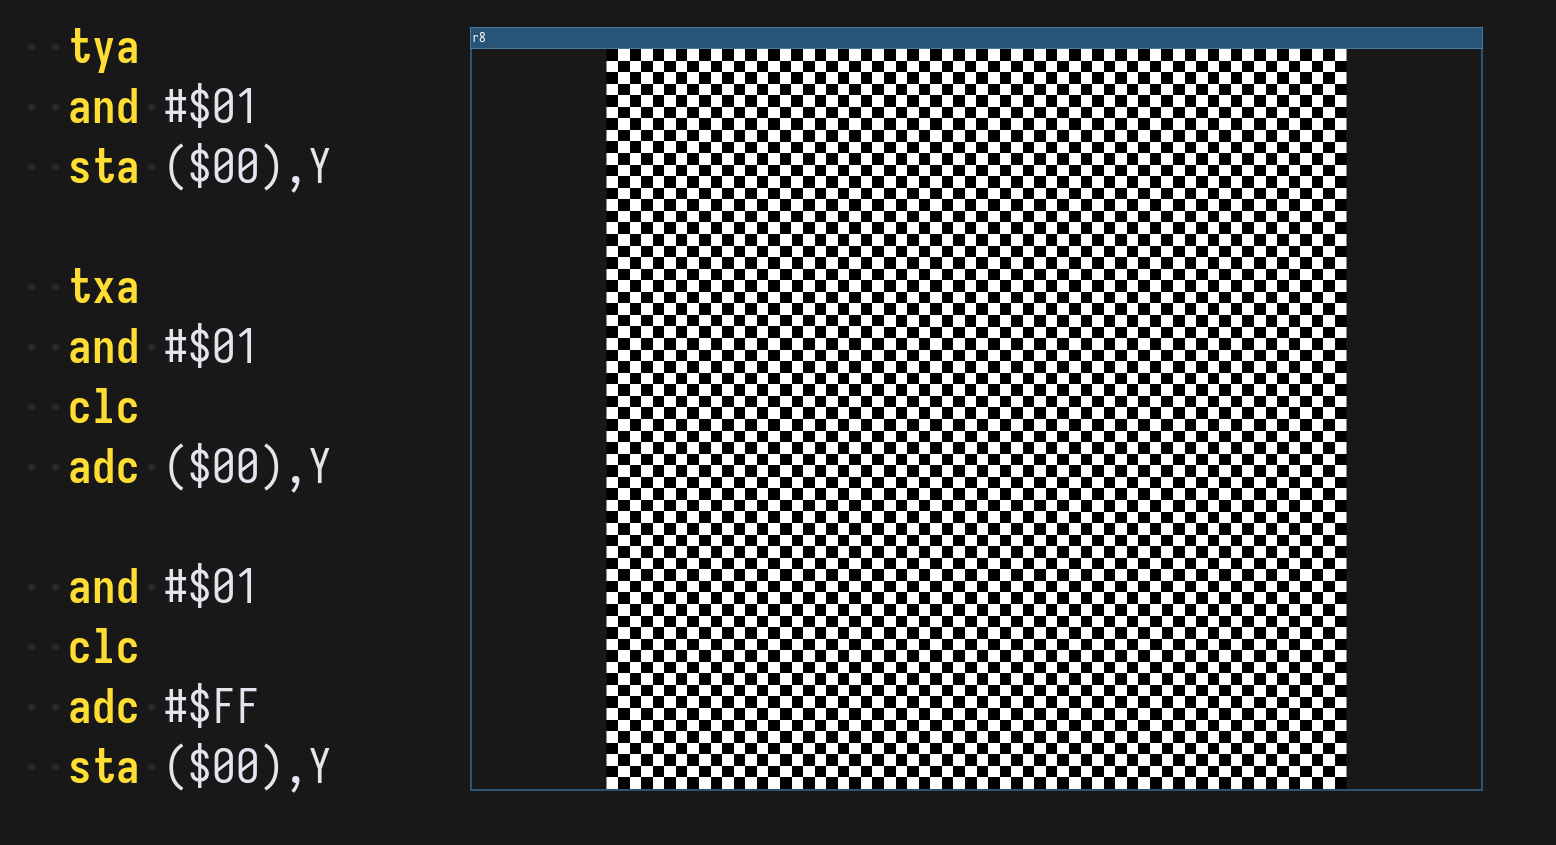
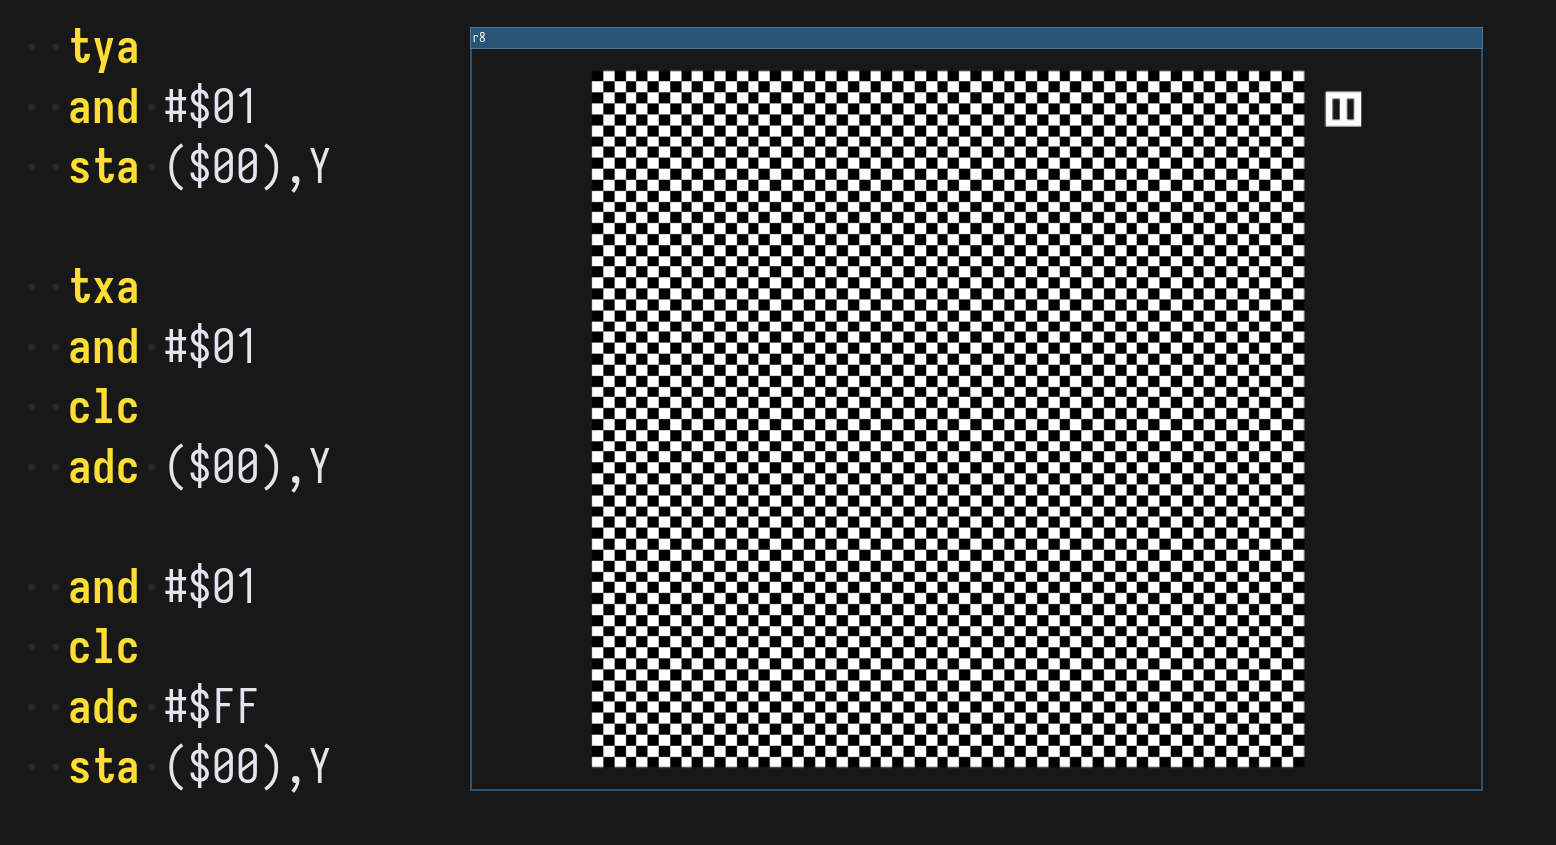
Configurable FPS
- Introduce a register to control the FPS of the emulation.
- Map Backspace, Enter and Escape keys to their corresponding ASCII ranges.
- Disable Raylib's quit on escape.
- Unbind Space from Toggle Pause so to not interfer with the keyboard
  input for the ROM.
- Introduce the Toggle Pause UI button.

Changed region(s): [[0.3702, 0.0615, 0.8946, 0.9538]]

diff --git a/src/r8.c b/src/r8.c
@@ -8,10 +8,10 @@
 #include "no_rom.c"
 
 #define UI_FPS 60 // The FPS the UI is running at
-#define EMU_FPS 5 // The FPS the 6502 emulator is running at
-#define EMU_DELTA_TIME (1.0/EMU_FPS)
+#define DEFAULT_EMU_FPS 5 // Default FPS the 6502 emulator is running at
 #include "layout.h"
 #define MAX_VECTOR_STEPS (10*1000*1000)
+#define BACKGROUND_COLOR 0x181818FF
 
 // 0x1000 .. 0x2000
 
@@ -71,17 +71,20 @@ bool reload_rom(String_Builder *rom, const char *rom_path)
 
     if (rom_path == NULL) {
         load_rom_at(no_rom, ARRAY_LEN(no_rom), ENTRY_POINT);
-        reset6502();
-        return true;
+    } else {
+        rom->count = 0;
+        if (!read_entire_file(rom_path, rom)) return false;
+        load_rom_at((uint8_t*)rom->items, rom->count, ENTRY_POINT);
     }
 
-    rom->count = 0;
-    if (!read_entire_file(rom_path, rom)) return false;
-    load_rom_at((uint8_t*)rom->items, rom->count, ENTRY_POINT);
     reset6502();
+    MEMORY[FPS_CONFIG] = DEFAULT_EMU_FPS;
 
     return true;
 }
+
+void box_pad(Rectangle *a, float pad);
+void box_merge(Rectangle *a, Rectangle b);
 
 int main(int argc, char **argv)
 {
@@ -101,6 +104,7 @@ int main(int argc, char **argv)
     SetConfigFlags(FLAG_WINDOW_RESIZABLE | FLAG_MSAA_4X_HINT);
     InitWindow(800, 600, "r8");
     SetTargetFPS(UI_FPS);
+    SetExitKey(KEY_NULL);
 
 
     Texture canvas = LoadTextureFromImage((Image) {
@@ -114,11 +118,8 @@ int main(int argc, char **argv)
 
     float global_timer = 0;
     bool pause = false;
+    Rectangle ui_box = {0};
     while (!WindowShouldClose()) {
-        if (IsKeyPressed(KEY_SPACE)) {
-            pause = !pause;
-        }
-
         if (IsKeyPressed(KEY_R) && IsKeyDown(KEY_LEFT_CONTROL)) {
             reload_rom(&rom, rom_path);
             call_vector(ENTRY_POINT);
@@ -137,13 +138,19 @@ int main(int argc, char **argv)
         }
 
         if (!pause) {
-            float a = fmodf(global_timer, EMU_DELTA_TIME);
+            int emu_fps = MEMORY[FPS_CONFIG] & 31;
+            if (emu_fps == 0) { emu_fps = DEFAULT_EMU_FPS; }
+            float emu_delta_time = 1.f / (float) emu_fps;
+            float a = fmodf(global_timer, emu_delta_time);
             global_timer += GetFrameTime();
-            float b = fmodf(global_timer, EMU_DELTA_TIME);
+            float b = fmodf(global_timer, emu_delta_time);
             if (b < a) {
                 for (int c = 0; c < 128; ++c) {
                     MEMORY[KEYBOARD + c] = IsKeyDown(c);
                 }
+                MEMORY[KEYBOARD + '\b'] = IsKeyDown(KEY_BACKSPACE);
+                MEMORY[KEYBOARD + '\n'] = IsKeyDown(KEY_ENTER);
+                MEMORY[KEYBOARD + 0x1B] = IsKeyDown(KEY_ESCAPE);
 
                 call_vector(read16(UPDATE_VECTOR));
             }
@@ -156,17 +163,67 @@ int main(int argc, char **argv)
 
         Camera2D camera = {0};
         camera.offset = (Vector2){w*0.5, h*0.5};
-        if (w < h) {
-            camera.zoom = w/canvas.width;
+        camera.target = (Vector2){
+            ui_box.x + ui_box.width*0.5,
+            ui_box.y + ui_box.height*0.5,
+        };
+        if (w/h < ui_box.width/ui_box.height) {
+            camera.zoom = w/ui_box.width;
         } else {
-            camera.zoom = h/canvas.height;
+            camera.zoom = h/ui_box.height;
         }
 
         BeginDrawing(); {
-            ClearBackground(GetColor(0x181818FF));
+            ClearBackground(GetColor(BACKGROUND_COLOR));
             BeginMode2D(camera); {
-                Vector2 position = {-canvas.width*0.5, -canvas.height*0.5};
-                DrawTextureEx(canvas, position, 0, 1, WHITE);
+                DrawTextureEx(canvas, Vector2Zero(), 0, 1, WHITE);
+                Rectangle canvas_box = {0, 0, canvas.width, canvas.height};
+                float margin_between_canvas_and_pause_button = 0.03*canvas.width;
+                Rectangle pause_button_box = {0};
+                pause_button_box.x      = canvas_box.x + canvas.width + margin_between_canvas_and_pause_button;
+                pause_button_box.y      = canvas_box.y + margin_between_canvas_and_pause_button;
+                pause_button_box.width  = canvas_box.width*0.05;
+                pause_button_box.height = pause_button_box.width;
+                DrawRectangleRec(pause_button_box, WHITE);
+                float icon_padding_left   = 0.3*pause_button_box.width;
+                float icon_padding_right  = 0.2*pause_button_box.width;
+                float icon_padding_top    = 0.2*pause_button_box.width;
+                float icon_padding_bottom = 0.2*pause_button_box.width;
+                if (pause) {
+                    Vector2 v1 = {pause_button_box.x + icon_padding_left, pause_button_box.y + icon_padding_top};
+                    Vector2 v2 = {pause_button_box.x + icon_padding_left, pause_button_box.y + pause_button_box.height - icon_padding_bottom};
+                    Vector2 v3 = {pause_button_box.x + pause_button_box.width - icon_padding_right, pause_button_box.y + pause_button_box.height*0.5};
+                    DrawTriangle(v1, v2, v3, GetColor(BACKGROUND_COLOR));
+                } else {
+                    float icon_padding = 0.2*pause_button_box.width;
+                    Rectangle pause_icon_box = {
+                        .x      = pause_button_box.x + icon_padding,
+                        .y      = pause_button_box.y + icon_padding,
+                        .width  = pause_button_box.width - icon_padding - icon_padding,
+                        .height = pause_button_box.height - icon_padding - icon_padding,
+                    };
+                    DrawRectangleRec((Rectangle) {
+                        .x      = pause_icon_box.x,
+                        .y      = pause_icon_box.y,
+                        .width  = pause_icon_box.width/3.,
+                        .height = pause_icon_box.height,
+                    }, GetColor(BACKGROUND_COLOR));
+                    DrawRectangleRec((Rectangle) {
+                        .x      = pause_icon_box.x + pause_icon_box.width*2./3.,
+                        .y      = pause_icon_box.y,
+                        .width  = pause_icon_box.width/3.,
+                        .height = pause_icon_box.height,
+                    }, GetColor(BACKGROUND_COLOR));
+                }
+                bool hover = CheckCollisionPointRec(GetScreenToWorld2D(GetMousePosition(), camera), pause_button_box);
+                bool click = IsMouseButtonPressed(MOUSE_BUTTON_LEFT);
+                if (hover && click) {
+                    pause = !pause;
+                }
+                memset(&ui_box, 0, sizeof(ui_box));
+                box_merge(&ui_box, canvas_box);
+                box_merge(&ui_box, pause_button_box);
+                box_pad(&ui_box, 2);
             } EndMode2D();
         } EndDrawing();
     }
@@ -174,4 +231,28 @@ int main(int argc, char **argv)
     CloseWindow();
 
     return 0;
+}
+
+void box_merge(Rectangle *a, Rectangle b)
+{
+    if (b.x < a->x) {
+        a->x = b.x;
+    }
+    if (b.y < a->y) {
+        a->y = b.y;
+    }
+    if (a->x + a->width < b.x + b.width) {
+        a->width = b.x + b.width;
+    }
+    if (a->y + a->height < b.y + b.height) {
+        a->height = b.y + b.height;
+    }
+}
+
+void box_pad(Rectangle *a, float pad)
+{
+    a->x      -= pad;
+    a->y      -= pad;
+    a->width  += pad*2;
+    a->height += pad*2;
 }

diff --git a/src/layout.h b/src/layout.h
@@ -1,5 +1,6 @@
 #define VECTOR_EXIT   0x6969
 #define ENTRY_POINT   0x8000
+#define FPS_CONFIG    0xFFFD // Lower 5 bits set the FPS the 6502 emulator is running at. The upper high bits are ignored for now.
 #define UPDATE_VECTOR 0xFFFE
 #define CANVAS        0x1000
 #define CANVAS_WIDTH  64
